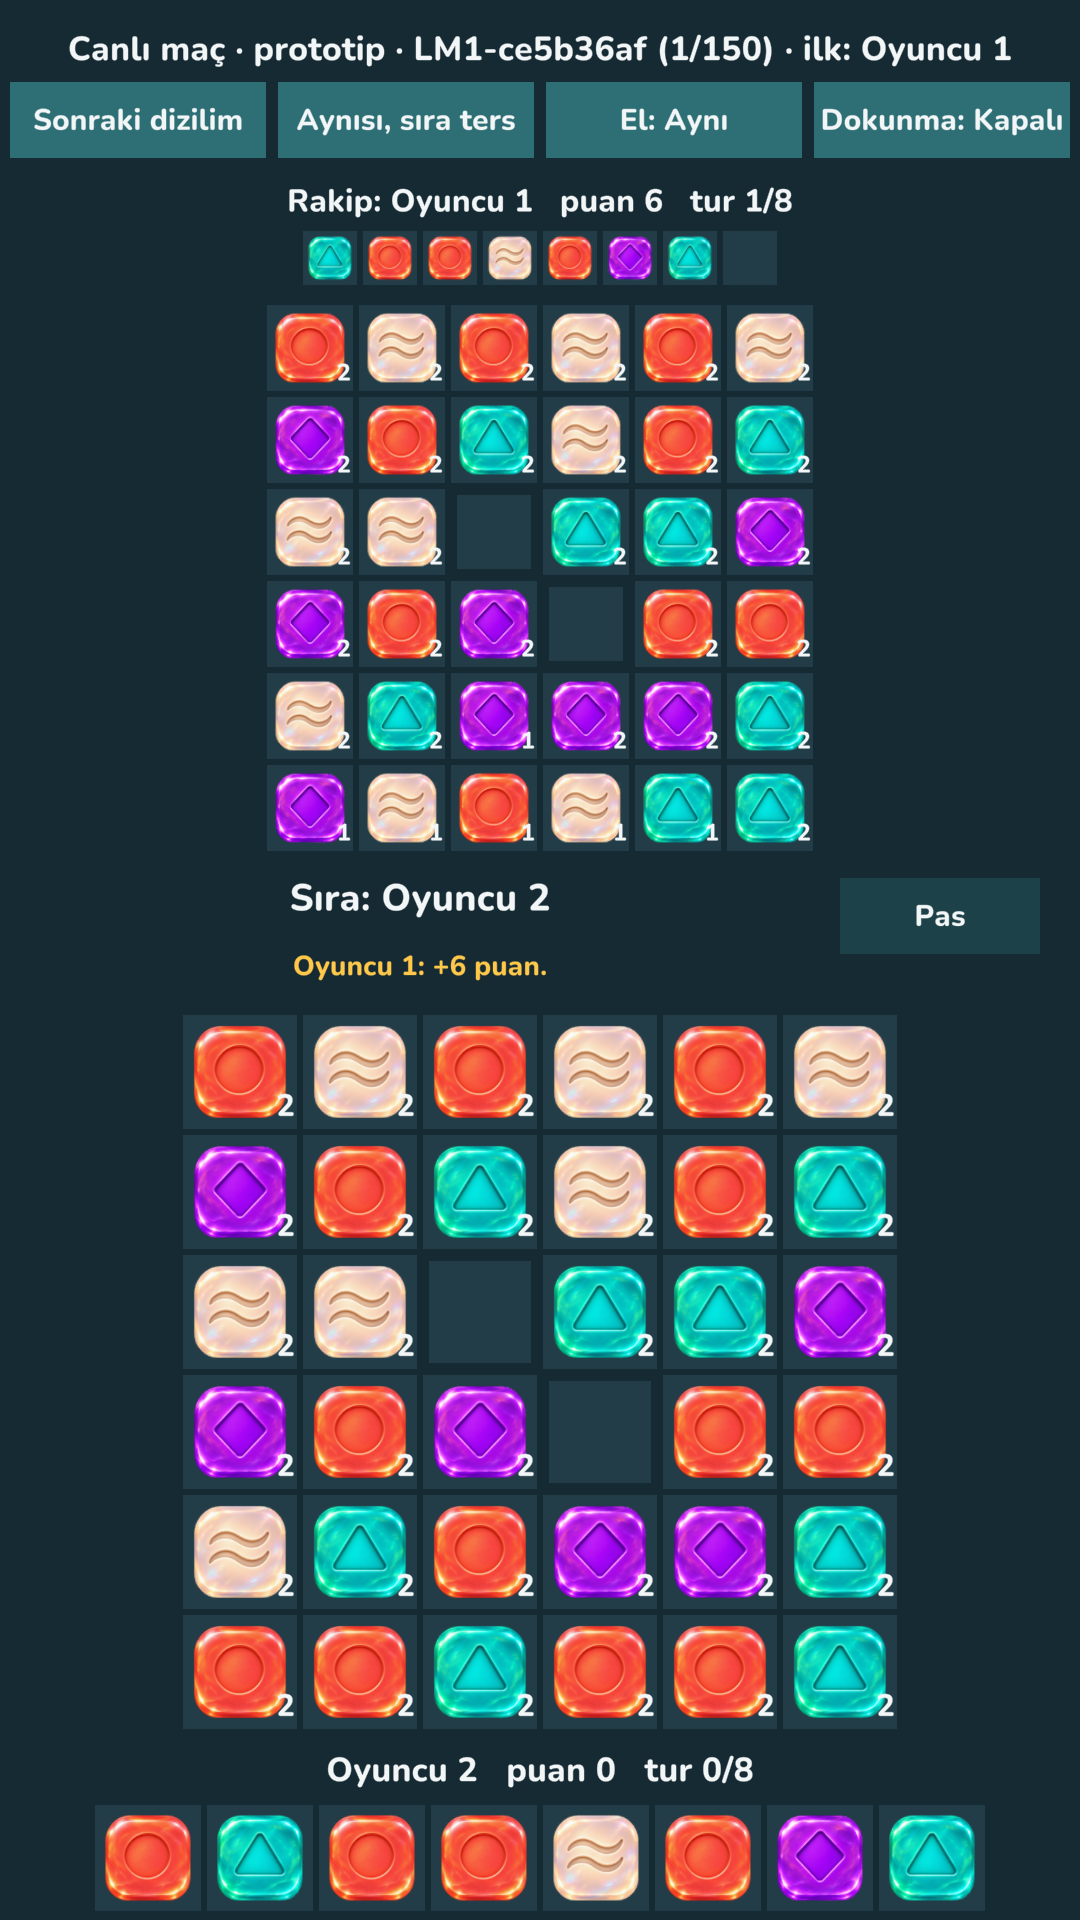
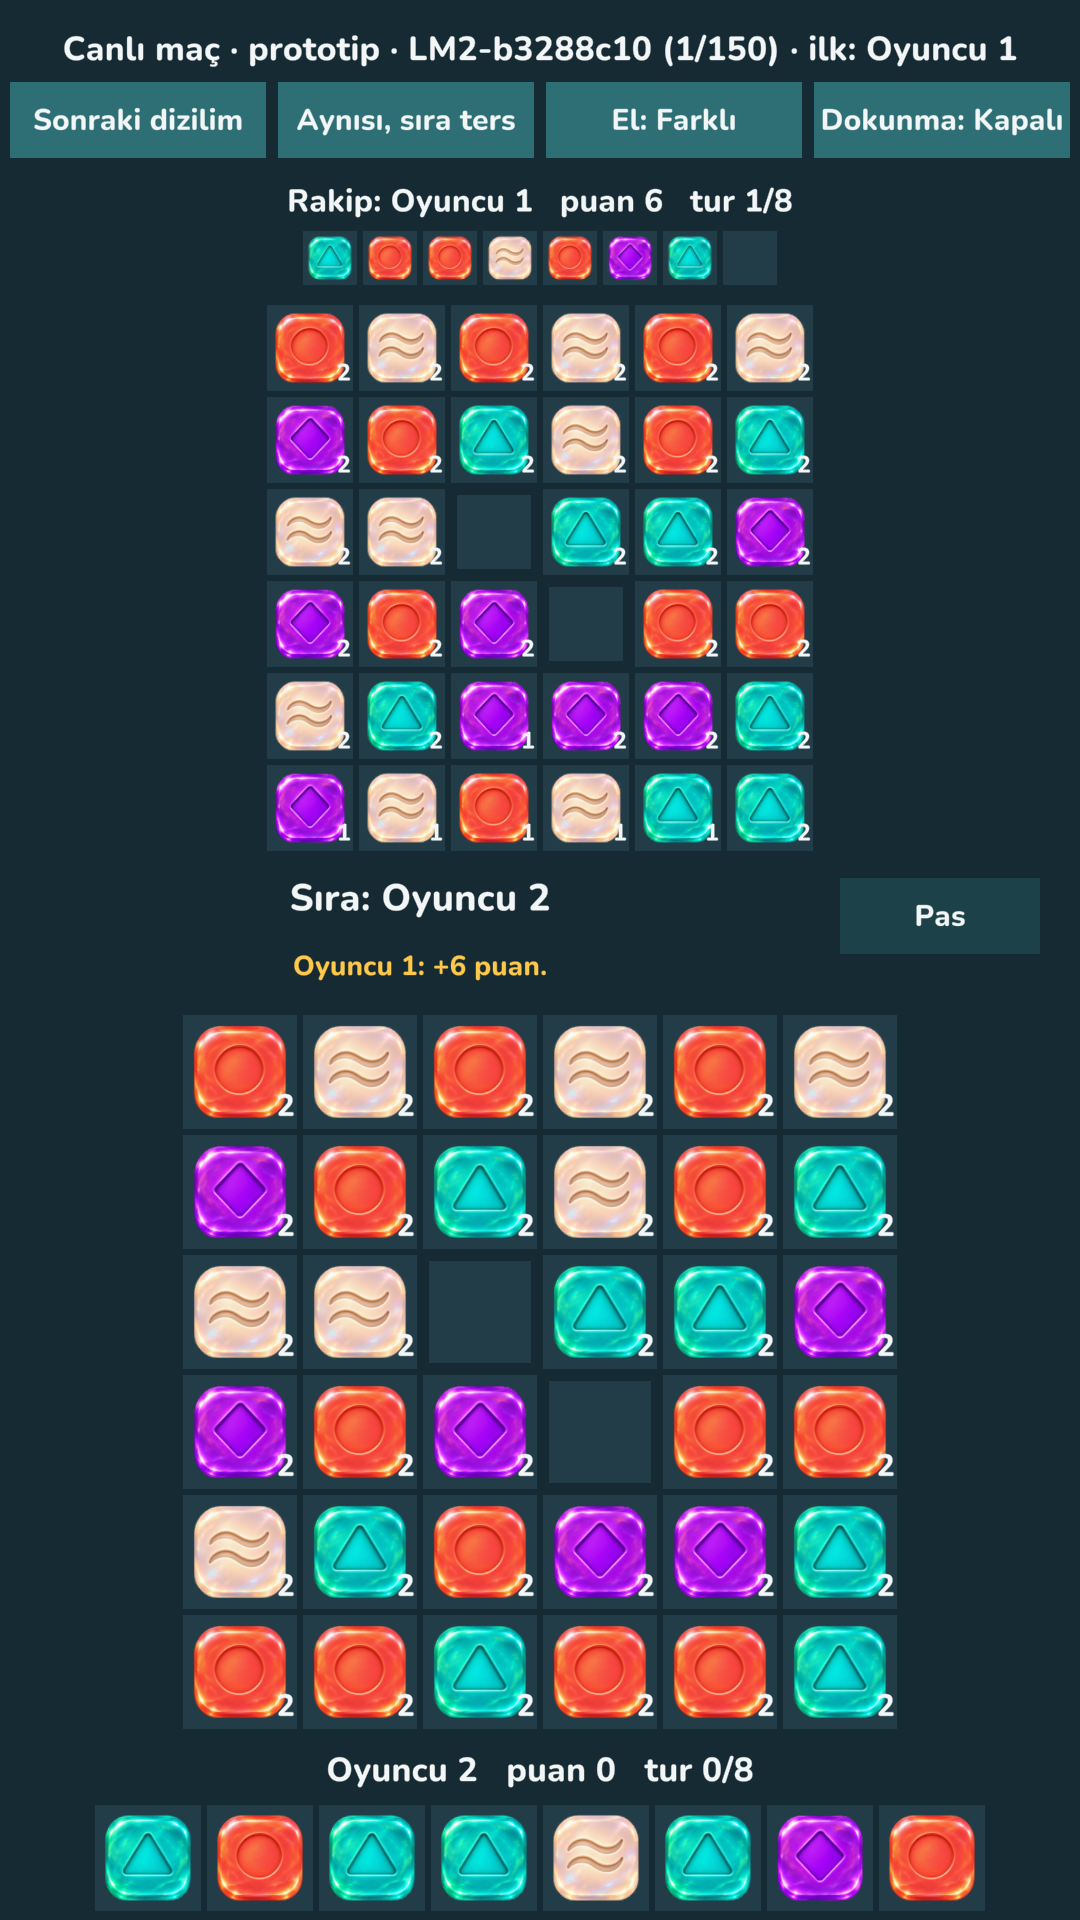
Canlı maç: varsayılan farklı ama denk eller (6×6, varsayılan eşitlik kuralı)
Kullanıcı: "Evet, varsayılan yap". Aynı eller "El" düğmesiyle ya da
ölçümde KATKAT_LIVE_HANDS=same ile. Testler aynı el havuzunu açıkça
aynı el kuralına bağlar; ekranlar yeniden alındı, eski 08 arşivde.

diff --git a/Assets/KatKat/Tests/EditMode/LiveMatchTests.cs b/Assets/KatKat/Tests/EditMode/LiveMatchTests.cs
@@ -38,7 +38,9 @@ namespace KatKat.Tests
         private static readonly string[] Bottom = { "PPPC", "CCCC", "BBB." };
         private const string Hand = "CBPYCBPY";
 
-        private static LiveRules Rules(bool tap = false) => new LiveRules { Width = 4, Height = 3, TapReadyGroups = tap };
+        private static LiveRules Rules(bool tap = false) => new LiveRules { Width = 4, Height = 3, TapReadyGroups = tap, DifferentHands = false };
+        /// <summary>Aynı eller havuzu (live_pool_v1) için kurallar; varsayılan artık farklı ama denk eller.</summary>
+        private static LiveRules SameHands() => new LiveRules { DifferentHands = false };
 
         private static string Snapshot(LiveMatch m)
         {
@@ -64,7 +66,7 @@ namespace KatKat.Tests
             Assert.Greater(pool.Count, 0);
             foreach (var l in pool.Take(20))
             {
-                var m = new LiveMatch(l, new LiveRules());
+                var m = new LiveMatch(l, SameHands());
                 for (int i = 0; i < l.Count; i++)
                 {
                     Assert.AreEqual(m.Boards[0][i].Active, m.Boards[1][i].Active);
@@ -97,7 +99,7 @@ namespace KatKat.Tests
         [Test]
         public void Pool_EveryOpeningAttack_LeavesDefenderAScoringMove()
         {
-            var rules = new LiveRules();
+            var rules = SameHands();
             foreach (var l in LiveLayout.ParsePool(File.ReadAllText(PoolPath)))
             {
                 Assert.IsNull(LiveGenerator.Validate(l, rules), l.Id);
@@ -256,7 +258,7 @@ namespace KatKat.Tests
                     for (int k = 0; k < 10; k++)
                     {
                         var l = pool[k];
-                        var rules = new LiveRules { TapReadyGroups = tap };
+                        var rules = new LiveRules { TapReadyGroups = tap, DifferentHands = false };
                         int initial = l.CreateBoard().TotalLayers();
                         var m = LiveSim.Play(l, rules, k % 2, new[] { kind, kind }, 77 + k);
                         Assert.IsTrue(m.IsOver);
@@ -326,7 +328,7 @@ namespace KatKat.Tests
         {
             // Tek hücreli tahta + tek renk el: kendi tahtada aynı renk, rakipte aynı renk → yasal hamle yok.
             var l = Make(new[] { "C" }, new[] { "B" }, "C");
-            var rules = new LiveRules { Width = 1, Height = 1, HandSize = 1, TurnsPerPlayer = 1 };
+            var rules = new LiveRules { Width = 1, Height = 1, HandSize = 1, TurnsPerPlayer = 1, DifferentHands = false };
             var m = new LiveMatch(l, rules);
             Assert.IsFalse(m.HasLegalMove(0));
             var r = m.Submit(LiveCommand.Pass(0, 1));
@@ -370,7 +372,7 @@ namespace KatKat.Tests
             var header = text.Split('\n').First(s => s.StartsWith("# gen="));
             long seed = long.Parse(header.Split(' ').First(s => s.StartsWith("seed=")).Substring(5));
             var stored = LiveLayout.ParsePool(text);
-            var again = LiveGenerator.BuildPool(12, seed, new LiveRules());
+            var again = LiveGenerator.BuildPool(12, seed, SameHands());
             for (int i = 0; i < again.Count; i++) Assert.AreEqual(stored[i].ToLine(), again[i].ToLine(), "dizilim " + i);
             foreach (var l in stored) Assert.AreEqual(l.ToLine(), LiveLayout.Parse(l.ToLine()).ToLine());
             // Türler karışık: her açılış türü havuzda var.
@@ -378,6 +380,18 @@ namespace KatKat.Tests
         }
 
         private static string DiffPoolPath => Path.Combine(Path.GetDirectoryName(PoolPath), "live_pool_diffhands_v2.txt");
+
+        [Test]
+        public void Default_IsDifferentHands_6x6_DefaultTieBreak()
+        {
+            var r = new LiveRules();
+            Assert.IsTrue(r.DifferentHands);
+            Assert.AreEqual(6, r.Width);
+            Assert.AreEqual(6, r.Height);
+            Assert.AreEqual(LiveTieBreak.BiggestGroupThenSecond, r.TieBreak);
+            foreach (var l in LiveLayout.ParsePool(File.ReadAllText(DiffPoolPath)).Take(20))
+                Assert.IsNull(LiveGenerator.Validate(l, r), l.Id);
+        }
 
         [Test]
         public void DifferentHands_LayoutRoundTrip_EachPlayerGetsOwnHand()
@@ -411,7 +425,7 @@ namespace KatKat.Tests
             Assert.AreEqual("eller aynı", LiveGenerator.Validate(copy, rules));
             copy.Hand2 = Enumerable.Repeat(LayerColor.Coral, copy.Hand.Length).ToArray();
             Assert.IsNotNull(LiveGenerator.Validate(copy, rules));
-            Assert.AreEqual("beklenmeyen ikinci el", LiveGenerator.Validate(l, new LiveRules()));
+            Assert.AreEqual("beklenmeyen ikinci el", LiveGenerator.Validate(l, SameHands()));
         }
 
         [Test]

diff --git a/Assets/KatKat/Editor/LiveMatchTools.cs b/Assets/KatKat/Editor/LiveMatchTools.cs
@@ -31,8 +31,8 @@ namespace KatKat.EditorTools
             var rules = new LiveRules();
             poolPath = PoolPath;
             reportPath = ReportPath;
-            // Farklı ama denk eller (kullanıcı 2026-11-13): KATKAT_LIVE_HANDS=diff. 6×6 havuzu oyuna girer (ekrandaki "El" düğmesi).
-            bool diff = Environment.GetEnvironmentVariable("KATKAT_LIVE_HANDS") == "diff";
+            // Farklı ama denk eller varsayılan (kullanıcı 2026-11-13). Aynı eller için KATKAT_LIVE_HANDS=same; iki 6×6 havuzu da oyuna girer (ekrandaki "El" düğmesi).
+            bool diff = Environment.GetEnvironmentVariable("KATKAT_LIVE_HANDS") != "same";
             rules.DifferentHands = diff;
             if (diff)
             {
@@ -228,9 +228,9 @@ namespace KatKat.EditorTools
                 while (!screen.Match.IsOver) screen.Match.Submit(LiveBots.Choose(screen.Match, LiveBotKind.Balanced, rng));
                 Shot("07_mac_sonu");
                 screen.Rules.TapReadyGroups = false;
-                // Farklı ama denk eller (havuz Resources'ta varsa).
+                // Aynı eller (varsayılan farklı ama denk olduğundan düğmeyle karşılaştırma görüntüsü).
                 screen.ToggleHands();
-                if (screen.Match != null && screen.Match.Layout.DifferentHands) Shot("08_farkli_eller");
+                if (screen.Match != null && !screen.Match.Layout.DifferentHands) Shot("08_ayni_eller");
                 screen.ToggleHands();
                 Debug.Log("[KatKat] Canlı maç ekranları → " + ShotDir);
             }

diff --git a/Assets/KatKat/Scripts/Core/Live/LiveRules.cs b/Assets/KatKat/Scripts/Core/Live/LiveRules.cs
@@ -31,9 +31,9 @@ namespace KatKat.Core.Live
         /// <summary>
         /// Farklı ama denk eller (kullanıcı 2026-11-13; ayna oyunu kırmak için). Açıkken iki oyuncunun eli aynı renk
         /// sayı profilinde ama renkleri farklı (renk değişimi), açılış değeri eşit (<see cref="LiveGenerator.Validate"/>). Belgedeki
-        /// "aynı ilk el" kuralını değiştirir; deneme ayarı.
+        /// "aynı ilk el" kuralını değiştirir. Varsayılan açık (kullanıcı 2026-11-13: "Evet, varsayılan yap"; bot ölçümünde beraberlik %50 → %16).
         /// </summary>
-        public bool DifferentHands;
+        public bool DifferentHands = true;
 
         public LiveRules Clone() => (LiveRules)MemberwiseClone();
 

diff --git a/Assets/KatKat/Scripts/UI/LiveMatchScreen.cs b/Assets/KatKat/Scripts/UI/LiveMatchScreen.cs
@@ -71,7 +71,7 @@ namespace KatKat.UI
         }
 
         /// <summary>Havuzu Resources'tan yükler: aynı eller Live/live_pool_v1, farklı ama denk eller Live/live_pool_diffhands_v2.</summary>
-        public static List<LiveLayout> LoadPool(bool differentHands = false)
+        public static List<LiveLayout> LoadPool(bool differentHands = true)
         {
             var ta = Resources.Load<TextAsset>(differentHands ? "Live/live_pool_diffhands_v2" : "Live/live_pool_v1");
             return ta != null ? LiveLayout.ParsePool(ta.text) : new List<LiveLayout>();

diff --git a/Assets/KatKat/Tests/PlayMode/LiveMatchScreenTests.cs b/Assets/KatKat/Tests/PlayMode/LiveMatchScreenTests.cs
@@ -27,6 +27,7 @@ namespace KatKat.Tests
             yield return null;
             var m = screen.Match;
             Assert.IsNotNull(m, "havuz yüklenmeli ve maç başlamalı");
+            Assert.IsTrue(m.Layout.DifferentHands, "varsayılan: farklı ama denk eller");
             Assert.AreEqual(0, m.Current);
 
             var opp = LiveMoves.Opportunities(m.Boards[0], m.Hands[0])[0];

diff --git a/docs/KARARLAR.md b/docs/KARARLAR.md
@@ -162,13 +162,13 @@ Eski ayrıntılı karar günlüğü arşivde (`KatKat_Arsiv_2026-11-06/docs/KARA
   - Ana bulmacadan ayrı mod. Motor `Scripts/Core/Live/` (Unity'siz). Ana oyunun zincir çözümü (`RulesEngine`) değişmedi.
   - Kesin kurallar kodda sabit: iki katman, zincir yok, kenardan bağlı en az 3, 4 renk, rakipte yalnız renk değişir.
   - Prototip varsayımları `LiveRules`'ta, standart değil: 6×6, 8 taşlık aynı el (yenilemesiz), oyuncu başına 8 tur, yasal hamle yoksa pas. Dokunarak patlatma deneme ayarı, varsayılan kapalı. Rakipte hedefte 3'lü kuran saldırı geçersiz.
-  - Havuz: `Resources/Live/live_pool_v1.txt`, üretim sürümü 1, tohum 20261113. Elle düzenlenmez; `tools/unity.ps1 live-report` ile yeniden üretilir.
+  - Havuz: `Resources/Live/live_pool_v1.txt` (aynı eller), üretim sürümü 1, tohum 20261113. Elle düzenlenmez; `KATKAT_LIVE_HANDS=same` ile `tools/unity.ps1 live-report` yeniden üretir (ortam değişkensiz koşu varsayılan farklı el havuzunu üretir).
   - Eşdeğer kopyalar (renk adı, aynalama, döndürme; alt katman ve el dahil) kanonik anahtarla ayıklanır.
   - Ekran yalnız geliştirici girişi (Kat Kat → Canlı maç → Prototipi oyna). Mağaza derlemesine girmez, metinleri yalnız Türkçe.
   - Açık ürün kararları: el boyu, yenileme, tur, süre, rakip elinin görünürlüğü, dokunarak patlatma, eşitlik bozma, ağlı sürüm kuralları.
   - Eşitlik bozma (kullanıcı: "Eşitlik bozma ekle"): `LiveRules.TieBreak`, prototip varsayılanı "en büyük tek grup, o da eşitse ikinci oynayan". Ölçüm: en büyük grup beraberliği az çözüyor (%50 → %49); ikinci oynayan kuralı beraberliği bitiriyor ama ikinciye %73–77 kazandırıyor. Kesin kural değil; açık ürün kararı.
-  - Farklı ama denk eller (kullanıcı: "Farklı ama denk eller"): `LiveRules.DifferentHands` deneme ayarı (ekranda "El" düğmesi), varsayılan kapalı. Belgedeki "aynı ilk el" kuralını değiştirir.
+  - Farklı ama denk eller (kullanıcı: "Farklı ama denk eller"): `LiveRules.DifferentHands` (ekranda "El" düğmesi). 2026-11-13 kullanıcı: "Evet, varsayılan yap" → **varsayılan açık**; belgedeki "aynı ilk el" kuralının yerini alır. Aynı eller düğmeyle ya da `KATKAT_LIVE_HANDS=same` ile ölçümde.
     - Denklik: ikinci el birincinin renk değişimi, renk kümesi farklı, en iyi hemen puan eşit, fırsat sayısı ±%15. Filtreler iki el için ayrı, saldırı denetimi iki yönde.
     - Havuzlar sürüm 2 (`LM2`): 6×6 `Resources/Live/live_pool_diffhands_v2.txt`, 5×5 `docs/vr1/canli_mac/havuz_5x5_farkli_el_v2.txt`.
     - Ölçüm: beraberlik %50 → %16 (Dengeli, 6×6). Varsayılan eşitlik kuralıyla %48 / %52.
-    - Bot verisine göre en dengeli birleşim: 6×6 + farklı el + varsayılan eşitlik kuralı. İnsanlarla denenmedi; varsayılan yapılmadı.
+    - Bot verisine göre en dengeli birleşim: 6×6 + farklı el + varsayılan eşitlik kuralı. İnsanlarla denenmedi; prototipin varsayılanı bu.

diff --git a/docs/OYUN.md b/docs/OYUN.md
@@ -186,7 +186,7 @@ Bölümler `LevelLab rebuild` (v7) ile üretildi. Zorluk hamle kıtlığından d
 | `tools/LevelLab` | Bölüm aracı: `build`, `report`, `rebuild` (şekil + zorluk + çözüm), `stress` (bütün bölümlere bot oyunları + değişmez denetimi). |
 | `tools/ArtV6/prepare.ps1` | `docs/gorseller` kaynaklarını oyuna hazırlar (atlas, kırpma, harita şeridi + yol çizgisi). |
 | `tools/unity.ps1` | Unity komutları: `test-edit`, `test-play`, `build-android`, `build-windows`, yakalamalar. |
-| `Scripts/Core/Live/`, `UI/LiveMatchScreen.cs` | Canlı maç prototipi (iki oyuncu, sırayla, ayrı mod): motor, doğrulanmış tahta havuzu (`Resources/Live/live_pool_v1.txt`), botlar, tek cihaz ekranı. Ayrıntı `docs/vr1/canli_mac/SONUC_RAPORU.md`. |
+| `Scripts/Core/Live/`, `UI/LiveMatchScreen.cs` | Canlı maç prototipi (iki oyuncu, sırayla, ayrı mod): motor, doğrulanmış tahta havuzları (varsayılan farklı ama denk eller `Resources/Live/live_pool_diffhands_v2.txt`, aynı eller `live_pool_v1.txt`), botlar, tek cihaz ekranı. Ayrıntı `docs/vr1/canli_mac/SONUC_RAPORU.md`. |
 | `docs/gorseller/` | Kullanılan görsellerin kaynakları (bkz. `docs/gorseller/README.md`). |
 
 ## 9. Sık işler
@@ -198,7 +198,7 @@ Testler:                   cd tools/CoreTests ; dotnet test      ve   tools/unit
 Bölüm sınaması:            cd tools/LevelLab ; dotnet run -c Release -- stress 60
 APK:                       tools/unity.ps1 build-android   → Builds/Android/KatKat.apk
 Exe:                       tools/unity.ps1 build-windows   → Builds/Windows/KatKat.exe
-Canlı maç havuz + ölçüm:   tools/unity.ps1 live-report     → docs/vr1/canli_mac/OLCUM_RAPORU.md
+Canlı maç havuz + ölçüm:   tools/unity.ps1 live-report     → docs/vr1/canli_mac/OLCUM_RAPORU_farkli_el.md (aynı el: KATKAT_LIVE_HANDS=same → OLCUM_RAPORU.md)
 Canlı maç ekranları:       tools/unity.ps1 live-capture    (editörde: Kat Kat → Canlı maç → Prototipi oyna)
 ```
 

diff --git a/docs/DURUM.md b/docs/DURUM.md
@@ -36,8 +36,8 @@ Son güncelleme: 2026-11-13. Oyunun tam tanımı: [OYUN.md](OYUN.md). Kararlar: 
     - 150'şer dizilimlik iki havuz: 6×6 oyunda, 5×5 docs'ta.
     - Ayna oyun kırıldı: Dengeli beraberlik %50 → %16 (6×6), %55 → %18 (5×5).
     - Varsayılan eşitlik kuralıyla 6×6'da %48 / %52; saldırı payı %4 → %9.
-    - Önerilen birleşim: 6×6 + farklı el + varsayılan eşitlik. Varsayılan yapılmadı, karar bekliyor.
-    - Testler: EditMode 259/261 (2 eski atlanan; 3 yeni), `LiveMatchScreenTests` 1/1. Yakalama `ekranlar/08_farkli_eller.png`.
+    - **Varsayılan yapıldı** (kullanıcı: "Evet, varsayılan yap"): prototip 6×6 + farklı el + varsayılan eşitlik kuralıyla açılır; aynı eller "El" düğmesiyle.
+    - Testler: EditMode 260/262 (2 eski atlanan; 4 yeni), `LiveMatchScreenTests` 1/1. Ekranlar 01–07 farklı elle, `08_ayni_eller.png` karşılaştırma.
   - Denenmedi: insanlarla oyun, telefon (cihaz derlemesi yok), ağlı sürüm.
   - Ayrı not: `tools/CoreTests` (dotnet test) bu değişiklikten önce de derlenmiyordu (`AppGalleryBuildTests.cs` editör koduna başvuruyor); Unity EditMode koşusu geçerli.
 
